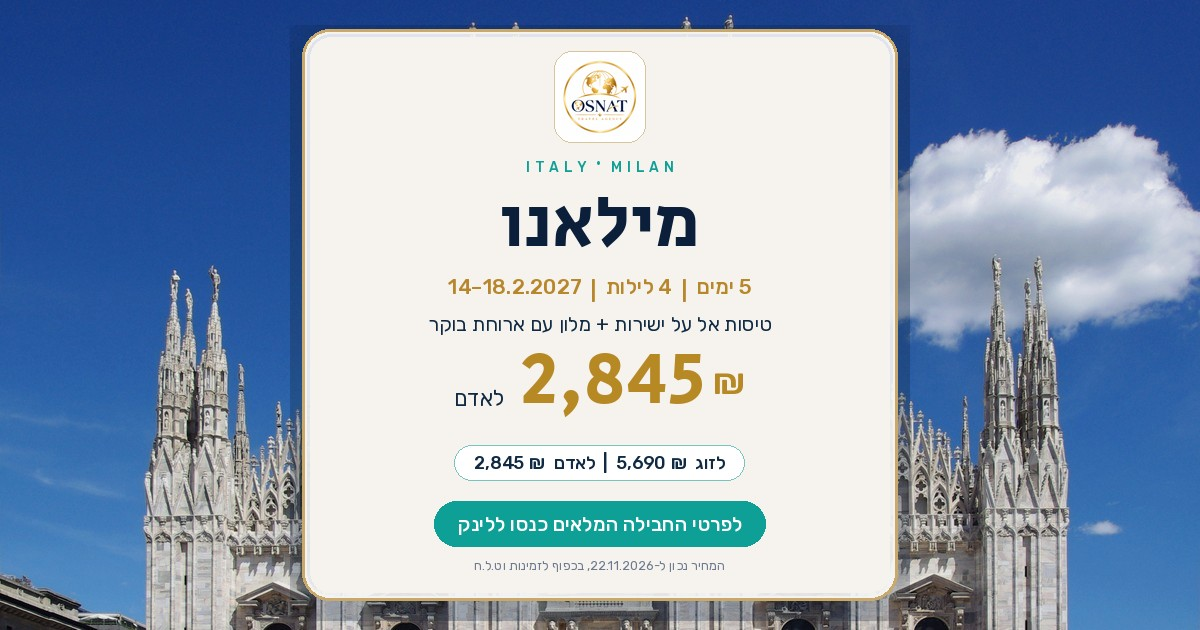
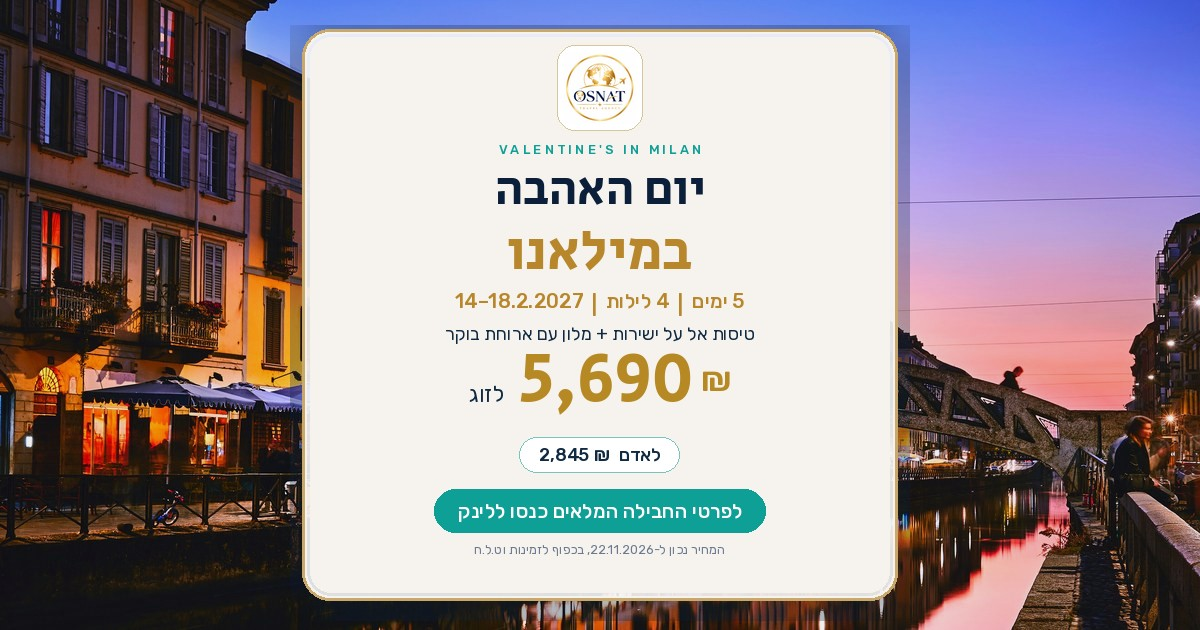
Preview: romantic Valentine's refresh for Milan Manin at /preview/milan-manin/
Keep the page private (noindex, not in /packages/, sitemap, or ai-packages.json). Market the 14–18.2.2027 departure as a couple's Valentine's getaway, with a Navigli sunset hero, a dusk Duomo photo, and a new OG image. Verified flight, hotel, and price facts are unchanged.

diff --git a/preview/milan-manin/index.html b/preview/milan-manin/index.html
@@ -4,26 +4,26 @@
 <meta charset="utf-8"/>
 <meta name="robots" content="noindex,nofollow,noarchive"/>
 <meta name="googlebot" content="noindex,nofollow"/>
-<meta name="description" content="מילאנו 14–18.2.2027 · טיסות אל על ישירות · Hotel Manin 4 כוכבים עם ארוחת בוקר · 2,845 ₪ לאדם · 5,690 ₪ לזוג"/>
-<meta property="og:title" content="מילאנו"/>
-<meta property="og:description" content="14–18.2.2027 · טיסות אל על ישירות · Hotel Manin 4 כוכבים עם ארוחת בוקר · 2,845 ₪ לאדם · 5,690 ₪ לזוג · לפרטי החבילה המלאים כנסו ללינק"/>
-<meta property="og:image" content="https://osnat-travel.com/preview/milan-manin/og.jpg?v=1"/>
-<meta property="og:image:secure_url" content="https://osnat-travel.com/preview/milan-manin/og.jpg?v=1"/>
+<meta name="description" content="יום האהבה במילאנו 14–18.2.2027 · טיסות אל על ישירות · Hotel Manin 4 כוכבים עם ארוחת בוקר · 5,690 ₪ לזוג · 2,845 ₪ לאדם"/>
+<meta property="og:title" content="יום האהבה במילאנו"/>
+<meta property="og:description" content="14–18.2.2027 · טיסות אל על ישירות · Hotel Manin 4 כוכבים עם ארוחת בוקר · 5,690 ₪ לזוג · 2,845 ₪ לאדם · לפרטי החבילה המלאים כנסו ללינק"/>
+<meta property="og:image" content="https://osnat-travel.com/preview/milan-manin/og.jpg?v=2"/>
+<meta property="og:image:secure_url" content="https://osnat-travel.com/preview/milan-manin/og.jpg?v=2"/>
 <meta property="og:image:width" content="1200"/>
 <meta property="og:image:height" content="630"/>
 <meta property="og:image:type" content="image/jpeg"/>
-<meta property="og:image:alt" content="מילאנו"/>
+<meta property="og:image:alt" content="יום האהבה במילאנו"/>
 <meta property="og:url" content="https://osnat-travel.com/preview/milan-manin/"/>
 <meta property="og:type" content="website"/>
 <meta property="og:locale" content="he_IL"/>
 <meta property="og:site_name" content="OSNAT TRAVEL AGENCY"/>
 <meta name="twitter:card" content="summary_large_image"/>
-<meta name="twitter:title" content="מילאנו"/>
-<meta name="twitter:description" content="14–18.2.2027 · טיסות אל על ישירות · Hotel Manin 4 כוכבים עם ארוחת בוקר · 2,845 ₪ לאדם · 5,690 ₪ לזוג"/>
-<meta name="twitter:image" content="https://osnat-travel.com/preview/milan-manin/og.jpg?v=1"/>
+<meta name="twitter:title" content="יום האהבה במילאנו"/>
+<meta name="twitter:description" content="14–18.2.2027 · טיסות אל על ישירות · Hotel Manin 4 כוכבים עם ארוחת בוקר · 5,690 ₪ לזוג · 2,845 ₪ לאדם"/>
+<meta name="twitter:image" content="https://osnat-travel.com/preview/milan-manin/og.jpg?v=2"/>
 <meta name="theme-color" content="#FBF8F2"/>
 <meta name="viewport" content="width=device-width,initial-scale=1"/>
-<title>מילאנו | OSNAT TRAVEL AGENCY</title>
+<title>יום האהבה במילאנו | OSNAT TRAVEL AGENCY</title>
 <link href="/assets/favicon-32.png" rel="icon" type="image/png"/>
 <link href="/apple-touch-icon.png" rel="apple-touch-icon"/>
 <link href="https://fonts.googleapis.com/css2?family=Cinzel:wght@500;600&amp;family=Secular+One&amp;family=Rubik:wght@300;400;500;700&amp;display=swap" rel="stylesheet"/>
@@ -31,21 +31,28 @@
 <style>
 *{box-sizing:border-box;margin:0;padding:0}
 body{font-family:Rubik,sans-serif;color:#102A43;background:#FBF8F2;direction:rtl}
-.hero{min-height:78vh;background:linear-gradient(180deg,rgba(6,16,32,.08),rgba(6,16,32,.04) 40%,rgba(6,16,32,.32)),url(img/hero.jpg) center 58%/cover;color:#fff;padding:20px;display:flex;flex-direction:column;justify-content:space-between}
+.hero{min-height:78vh;background:linear-gradient(180deg,rgba(28,12,24,.16),rgba(20,10,20,.10) 40%,rgba(16,8,18,.46)),url(img/hero.jpg) 36% 40%/cover;color:#fff;padding:20px;display:flex;flex-direction:column;justify-content:space-between}
 .logo{background:#fff;border-radius:18px;padding:6px;width:110px;box-shadow:0 6px 20px rgba(0,0,0,.25)}
 .logo img{width:100%;display:block}
-h1{font-family:"Secular One",Rubik,sans-serif;font-size:58px;font-weight:400;line-height:1;text-shadow:0 1px 3px rgba(0,0,0,.55),0 2px 10px rgba(0,0,0,.45)!important}
+h1{font-family:"Secular One",Rubik,sans-serif;font-size:58px;font-weight:400;line-height:1.05;text-shadow:0 1px 3px rgba(0,0,0,.55),0 2px 10px rgba(0,0,0,.45)!important}
 .hero h1 .grad{background:linear-gradient(90deg,#FFE7A3,#FFD36B 45%,#7FF0E4)!important;-webkit-background-clip:text!important;background-clip:text!important;color:transparent!important;-webkit-text-fill-color:transparent!important;filter:drop-shadow(0 1px 2px rgba(0,0,0,.35)) drop-shadow(0 2px 6px rgba(0,0,0,.2))}
 .sub{font-size:20px;font-weight:500;margin-top:8px;text-shadow:0 1px 3px rgba(0,0,0,.6),0 2px 8px rgba(0,0,0,.45)}
-.hero .vn-eyebrow{text-shadow:0 1px 3px rgba(0,0,0,.55),0 2px 8px rgba(0,0,0,.4)}
+.hero .vn-eyebrow{background:rgba(255,252,248,.94)!important;color:#0E9F96!important;border:1px solid rgba(184,120,122,.45)!important;text-shadow:none!important;box-shadow:0 2px 10px rgba(11,31,58,.2);letter-spacing:2.2px!important}
 .en{unicode-bidi:isolate;direction:ltr;white-space:nowrap}
 h2 bdi,.mbox h2 bdi,footer .en{white-space:normal}
-@media(max-width:600px){.sub .en{display:block;margin:4px 0}}
+@media(max-width:600px){
+.sub .en{display:block;margin:4px 0}
+.hero{background-position:32% 38%;padding-bottom:128px!important}
+.hero h1{font-size:clamp(2.15rem,9.4vw,2.7rem)!important;line-height:1.08!important}
+.hero .vn-eyebrow{letter-spacing:1.1px!important;font-size:.72rem!important;padding:6px 14px!important;background:rgba(255,252,248,.96)!important}
+.sub{font-size:17px}
+.hero .sub-bottom{padding-left:112px}
+}
 .wrap{max-width:640px;margin:auto;padding:20px}
 .card{background:#fff;border-radius:20px;padding:18px;margin:14px 0;box-shadow:0 6px 18px rgba(16,42,67,.1);border-top:6px solid var(--c)}
 h2{font-family:"Secular One",Rubik,sans-serif;font-size:22px;font-weight:400;margin-bottom:8px}
 li{margin:6px 18px 6px 0}
-.hot .main-ph{width:100%;max-width:320px;aspect-ratio:3/2;object-fit:cover;border-radius:14px;display:block;margin:12px auto 0}
+.hot .main-ph{width:100%;max-width:320px;aspect-ratio:3/4;object-fit:cover;object-position:center 35%;border-radius:14px;display:block;margin:12px auto 0}
 .caption{font-size:12px;color:#486581;text-align:center;margin-top:8px;line-height:1.5}
 @media(max-width:600px){.hot .main-ph{max-width:220px}}
 .small{font-size:13px;color:#486581}
@@ -53,29 +60,32 @@ li{margin:6px 18px 6px 0}
 footer{text-align:center;padding:24px;background:#102A43;color:#fff}
 bdi{white-space:nowrap}
 .hero .sub-bottom{margin-top:18px!important}
+.hero .vn-pb{border-color:rgba(196,140,120,.55)!important}
+.vn-pb .pb-tag{color:#8A3F4A;background:rgba(200,120,130,.14);border:1px solid rgba(184,120,122,.45)}
 </style>
 </head>
 <body class="pg-deal" data-depart="2027-02-10">
 <section class="hero">
 <div class="logo"><img alt="OSNAT TRAVEL AGENCY" src="/assets/logo.png"/></div>
 <div>
-<p class="vn-eyebrow">ITALY · MILAN</p>
-<h1><span class="grad">מילאנו</span></h1>
+<p class="vn-eyebrow">VALENTINE’S IN MILAN</p>
+<h1>יום האהבה ב<span class="grad">מילאנו</span></h1>
 <div class="price vn-pb" data-exp="price">
-<p class="pb-k">PRICE PER PERSON</p>
-<div class="pb-amt"><bdi class="pb-price" dir="ltr"><span class="pb-num">2,845</span> <span class="pb-cur">₪</span></bdi></div>
-<div class="pb-per">לאדם</div>
-<span class="pb-chip"><bdi dir="ltr">2,845 <span class="pb-cur">₪</span></bdi> לאדם <span aria-hidden="true">|</span> <bdi dir="ltr">5,690 <span class="pb-cur">₪</span></bdi> לזוג</span>
+<span class="pb-tag">דיל רומנטי לזוגות</span>
+<p class="pb-k">PRICE PER COUPLE</p>
+<div class="pb-amt"><bdi class="pb-price" dir="ltr"><span class="pb-num">5,690</span> <span class="pb-cur">₪</span></bdi></div>
+<div class="pb-per">לזוג</div>
+<span class="pb-chip"><bdi dir="ltr">2,845 <span class="pb-cur">₪</span></bdi> לאדם</span>
 <div class="pb-meta">5 ימים · 4 לילות · <bdi dir="ltr">14–18.2.2027</bdi> · טיסות אל על ישירות · לינה וארוחת בוקר</div>
 <div class="pb-note"><span>המחיר נכון ל-<bdi dir="ltr">22.11.2026</bdi>, בכפוף לזמינות וט.ל.ח</span><i> | </i><span>מקומות מוגבלים</span></div>
-<a class="pb-wa" href="https://wa.me/972506413749?text=%D7%9C%D7%97%D7%95%D7%A4%D7%A9%D7%94%20%D7%91%D7%9E%D7%99%D7%9C%D7%90%D7%A0%D7%95%2014%E2%80%9318.2" rel="noopener" target="_blank">להזמנה בוואטסאפ</a>
+<a class="pb-wa" href="https://wa.me/972506413749?text=%D7%9C%D7%93%D7%99%D7%9C%20%D7%99%D7%95%D7%9D%20%D7%94%D7%90%D7%94%D7%91%D7%94%20%D7%91%D7%9E%D7%99%D7%9C%D7%90%D7%A0%D7%95%2014%E2%80%9318.2" rel="noopener" target="_blank">להזמנה בוואטסאפ</a>
 </div>
 <aside class="vn-exp" data-exp-note="" hidden="">
 <p class="k">NEW DATES</p>
 <p class="vn-exp-t">לתאריכים ומחיר עדכניים – צרו קשר בוואטסאפ</p>
-<a class="vn-exp-wa" href="https://wa.me/972506413749?text=%D7%9C%D7%97%D7%95%D7%A4%D7%A9%D7%94%20%D7%91%D7%9E%D7%99%D7%9C%D7%90%D7%A0%D7%95%2014%E2%80%9318.2" rel="noopener" target="_blank">דברו איתנו בוואטסאפ</a>
+<a class="vn-exp-wa" href="https://wa.me/972506413749?text=%D7%9C%D7%93%D7%99%D7%9C%20%D7%99%D7%95%D7%9D%20%D7%94%D7%90%D7%94%D7%91%D7%94%20%D7%91%D7%9E%D7%99%D7%9C%D7%90%D7%A0%D7%95%2014%E2%80%9318.2" rel="noopener" target="_blank">דברו איתנו בוואטסאפ</a>
 </aside>
-<div class="sub sub-bottom">אופנה, קניות ותרבות איטלקית<br/><span data-exp="date">5 ימים, 4 לילות · <bdi>14–18.2.2027</bdi></span><br/>טיסות אל על ישירות + <bdi dir="ltr">Hotel Manin</bdi> + ארוחת בוקר</div>
+<div class="sub sub-bottom">חופשה זוגית במילאנו — שקיעה ליד הדואומו, טיול בגלריה, ואווירת ערב איטלקית לשניים<br/><span data-exp="date">5 ימים, 4 לילות · <bdi>14–18.2.2027</bdi></span><br/>טיסות אל על ישירות + <bdi dir="ltr">Hotel Manin</bdi> + ארוחת בוקר</div>
 </div>
 </section>
 <main class="wrap">
@@ -107,8 +117,8 @@ bdi{white-space:nowrap}
 <li>בסיס אירוח: לינה וארוחת בוקר</li>
 <li data-exp="date">ביטול חינם במלון עד <bdi>10.02.2027</bdi></li>
 </ul>
-<img alt="הדואומו בכיכר הקתדרלה במילאנו. התמונה היא של העיר, ולא של המלון." class="main-ph" src="img/duomo.jpg"/>
-<p class="caption">הדואומו במילאנו. התמונה היא של העיר, ולא של המלון.</p>
+<img alt="הדואומו במילאנו בשקיעה. התמונה היא של העיר, ולא של המלון." class="main-ph" src="img/duomo-sunset.jpg"/>
+<p class="caption">הדואומו במילאנו בשקיעה. התמונה היא של העיר, ולא של המלון.</p>
 </div>
 
 <div class="card" style="--c:#1877F2">
@@ -147,27 +157,28 @@ bdi{white-space:nowrap}
 <aside class="vn-exp" data-exp-note="" hidden="">
 <p class="k">NEW DATES</p>
 <p class="vn-exp-t">לתאריכים ומחיר עדכניים – צרו קשר בוואטסאפ</p>
-<a class="vn-exp-wa" href="https://wa.me/972506413749?text=%D7%9C%D7%97%D7%95%D7%A4%D7%A9%D7%94%20%D7%91%D7%9E%D7%99%D7%9C%D7%90%D7%A0%D7%95%2014%E2%80%9318.2" rel="noopener" target="_blank">דברו איתנו בוואטסאפ</a>
+<a class="vn-exp-wa" href="https://wa.me/972506413749?text=%D7%9C%D7%93%D7%99%D7%9C%20%D7%99%D7%95%D7%9D%20%D7%94%D7%90%D7%94%D7%91%D7%94%20%D7%91%D7%9E%D7%99%D7%9C%D7%90%D7%A0%D7%95%2014%E2%80%9318.2" rel="noopener" target="_blank">דברו איתנו בוואטסאפ</a>
 </aside>
 
-<div class="card" data-exp="price" style="--c:#F5A623">
+<div class="card" data-exp="price" style="--c:#C4787A">
 <p class="k">THE PRICE</p>
 <h2 class="vh"><span class="grad">מחיר</span></h2>
-<p><b><bdi>2,845 ₪</bdi></b> לאדם · <b><bdi>5,690 ₪</bdi></b> לזוג</p>
+<p>דיל רומנטי לזוגות</p>
+<p><b><bdi>5,690 ₪</bdi></b> לזוג · <b><bdi>2,845 ₪</bdi></b> לאדם</p>
 <p>כולל טיסות הלוך-חזור ו־4 לילות במלון עם ארוחת בוקר. תיק יד עד 8 ק״ג. מזוודה לבטן לא כלולה.</p>
 <p>מס עיר, אם ייגבה, משולם בנפרד במלון.</p>
 <p class="small" style="margin-top:8px">המחיר נכון ל-<bdi>22.11.2026</bdi>, בכפוף לזמינות וט.ל.ח · מקומות מוגבלים</p>
 </div>
 
 <a class="btn" href="tel:+972506413749" style="background:#102A43">חייגו <bdi>050-6413749</bdi></a>
-<a class="btn" href="https://wa.me/972506413749?text=%D7%9C%D7%97%D7%95%D7%A4%D7%A9%D7%94%20%D7%91%D7%9E%D7%99%D7%9C%D7%90%D7%A0%D7%95%2014%E2%80%9318.2" rel="noopener" style="background:#128C7E" target="_blank">להזמנה בוואטסאפ</a>
+<a class="btn" href="https://wa.me/972506413749?text=%D7%9C%D7%93%D7%99%D7%9C%20%D7%99%D7%95%D7%9D%20%D7%94%D7%90%D7%94%D7%91%D7%94%20%D7%91%D7%9E%D7%99%D7%9C%D7%90%D7%A0%D7%95%2014%E2%80%9318.2" rel="noopener" style="background:#128C7E" target="_blank">להזמנה בוואטסאפ</a>
 </main>
 
 <footer>
 <b>OSNAT TRAVEL AGENCY | חופשות בהתאמה אישית</b><br/>
 <bdi>050-6413749</bdi><br/>
 <small>המחיר נכון ל-<bdi>22.11.2026</bdi>, בכפוף לזמינות וט.ל.ח</small><br/>
-<small style="opacity:.7;font-size:11px">תמונת הדואומו: <bdi class="en" dir="ltr">Jakub Hałun</bdi>, ויקישיתוף, <bdi dir="ltr">CC BY-SA 4.0</bdi>. התמונה היא של הדואומו במילאנו, ולא של המלון.</small>
+<small style="opacity:.7;font-size:11px">תמונת תעלת הנאווילי בשקיעה: <bdi class="en" dir="ltr">Deensel</bdi>, ויקישיתוף, <bdi dir="ltr">CC BY 2.0</bdi>. תמונת הדואומו בשקיעה: <bdi class="en" dir="ltr">Vanessa Namdar</bdi>, ויקישיתוף, <bdi dir="ltr">CC BY-SA 4.0</bdi>. התמונות הן של העיר מילאנו, ולא של המלון.</small>
 </footer>
 <script defer="" src="/assets/vn/pkg-expiry.js"></script>
 <!--vn-ai-chat--><link rel="stylesheet" href="/assets/vn/ai-chat.css"><script src="/assets/vn/ai-chat.js" data-packages="/assets/vn/ai-packages.json" data-endpoint="https://osnat-ai-chat.osnat-travel.workers.dev" defer></script>

diff --git a/preview/milan-manin/PHOTO-CREDITS.md b/preview/milan-manin/PHOTO-CREDITS.md
@@ -1,13 +1,20 @@
 # Photo credits — preview/milan-manin (Milan Hotel Manin preview)
 
-This notes file is not linked from the page. The Duomo photo is also credited in the public footer.
-No photographs of Hotel Manin are used. The images show the Milan Cathedral (Duomo) in Piazza del Duomo, not the hotel.
+This notes file is not linked from the page. The photos are also credited in the public footer.
+No photographs of Hotel Manin are used. The images show the Naviglio Grande canal at sunset and the Milan Cathedral (Duomo) at sunset, not the hotel.
 
 ## Destination photos
 
-1. `img/hero.jpg`, `img/duomo.jpg`, and the background of `og.jpg`
-   - Subject: Facade of the Milan Cathedral (Duomo di Milano) in Piazza del Duomo, daytime
-   - Source: Wikimedia Commons, [20110724 Milan Cathedral 5260.jpg](https://commons.wikimedia.org/wiki/File:20110724_Milan_Cathedral_5260.jpg)
-   - Author: Jakub Hałun
+1. `img/hero.jpg` and the background of `og.jpg`
+   - Subject: Naviglio Grande canal in Milan at sunset, with the iron footbridge and restaurant lights reflected in the water
+   - Source: Wikimedia Commons, [Milan Naviglio Grande at sunset HD 01.jpg](https://commons.wikimedia.org/wiki/File:Milan_Naviglio_Grande_at_sunset_HD_01.jpg)
+   - Author: [Deensel](https://www.flickr.com/photos/deensel/)
+   - License: [CC BY 2.0](https://creativecommons.org/licenses/by/2.0/)
+   - Changes: slightly brightened and saturated, cropped, resized and compressed; a wide crop is used as the Open Graph background.
+
+2. `img/duomo-sunset.jpg`
+   - Subject: Facade of the Milan Cathedral (Duomo di Milano) under a pink sunset sky
+   - Source: Wikimedia Commons, [Pink sunset over the Duomo.jpg](https://commons.wikimedia.org/wiki/File:Pink_sunset_over_the_Duomo.jpg)
+   - Author: Vanessa Namdar
    - License: [CC BY-SA 4.0](https://creativecommons.org/licenses/by-sa/4.0/)
-   - Changes: cropped, slightly brightened and saturated, resized and compressed; a wide crop of the upper facade and sky is used as the Open Graph background.
+   - Changes: slightly brightened and saturated, resized and compressed.
